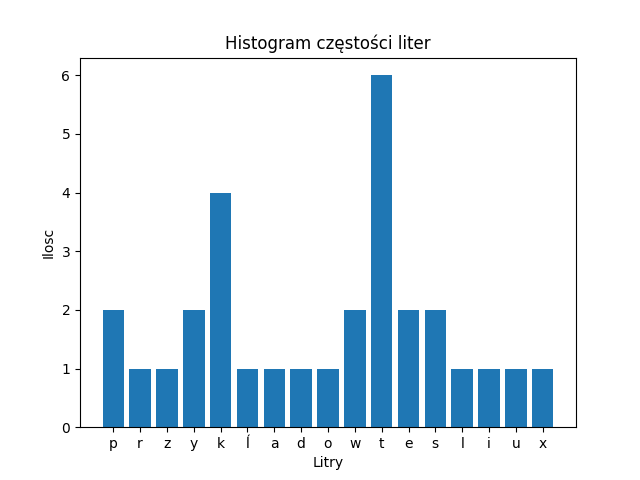
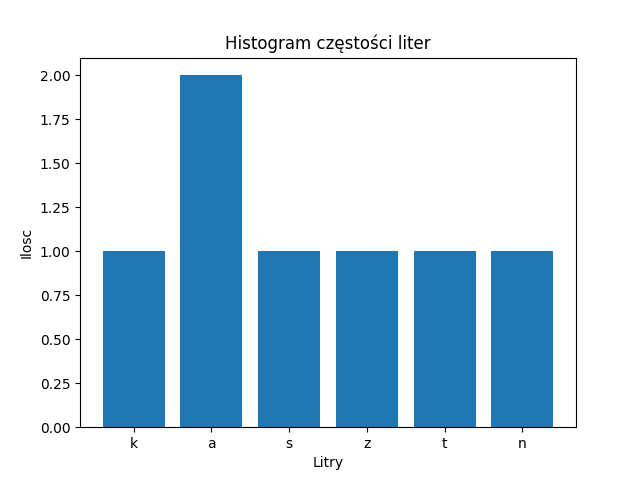
Zmiana scope'u (#3)
* Tworzenie aplikacji konsolowej do generowania histogramu - ograniczenie scopu

---------

* Tworzenie aplikacji konsolowej do generowania histogramu - ograniczenie scopu

---------

---------

diff --git a/main.py b/main.py
@@ -1,5 +1,4 @@
 import matplotlib.pyplot as plt
-
 def generowanie_histogramu(text):
 
     text_zmieniony = ''.join(filter(str.isalpha, text)).lower()
@@ -21,9 +20,32 @@ def generowanie_histogramu(text):
     plt.title("Histogram częstości liter")
 
     plt.savefig('histogram.png')
+def generowanie_histogramu_z_ograniczonym_zakresem(text,zakres):
+
+    text_zmieniony =list(text)
+
+    scope = list(zakres)
+    litery=[]
+    ilosc = []
+    for char in scope:
+        litery.append(char)
+        ilosc.append(1)
+    for char in text_zmieniony:
+        if char in litery:
+            index = litery.index(char)
+            ilosc[index] += 1
+
+    plt.bar(litery, ilosc)
+    plt.xlabel("Litry")
+    plt.ylabel("Ilosc")
+    plt.title("Histogram częstości liter")
+
+    plt.savefig('histogram_z_zakresem.png')
+
 
 
 with open('tekst.txt', 'r') as file:
-    tekst = file.read()
-
-generowanie_histogramu(tekst)
+   tekst = file.read()
+wpisany_tekst=input("Wpisz tekst: ")
+scope=input("Wpisz litery których czestotliwość ma być przedstawiona na histogramie: ")
+generowanie_histogramu_z_ograniczonym_zakresem(wpisany_tekst,scope)
